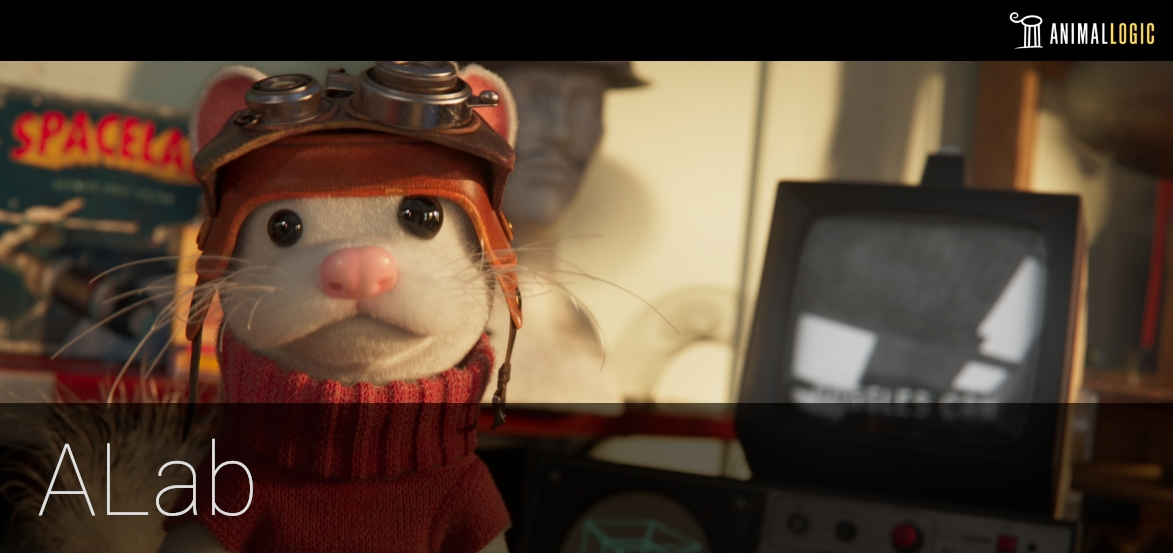
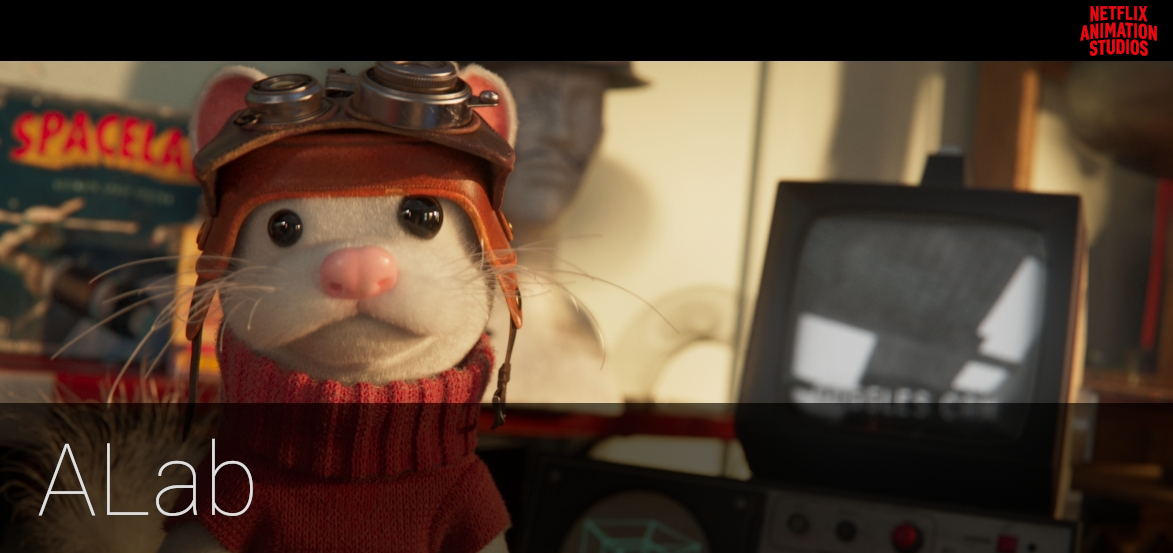
Rebrand Animal Logic to Netflix Animation Studios

Changed region(s): [[0.8593, 0.0, 1.0, 0.123]]

diff --git a/README.md b/README.md
@@ -3,7 +3,7 @@
 
 # Introduction
 
-Welcome to Animal Logic's USD [ALab](https://animallogic.com/alab/).
+Welcome to Netflix Animation Studios' USD [ALab](https://animallogic.com/alab/).
 
 **TL;DR:** [Download ALab](https://dpel.aswf.io/alab/) and open `entry.usda` to get started.
 
@@ -12,7 +12,7 @@ Applications with USD support, such as Maya-2022+, Houdini-18.5+ and many more s
 For quick preview and inspection, [`USDView`](https://graphics.pixar.com/usd/docs/USD-Toolset.html#USDToolset-usdview) is a great starting point.
 
 
-|   Glimpse (AL proprietary)   | Houdini (Karma) |  Maya (VP2/render purpose) |  UsdView (Storm/render purpose)  |
+|   Glimpse (NAS proprietary)   | Houdini (Karma) |  Maya (VP2/render purpose) |  UsdView (Storm/render purpose)  |
 | ---------------------------- | --------------- | ------------------ | ------------------------ |
 |![Glimpse](docs/public/glimpse_phase2.png)|![Houdini screenshot](docs/public/houdini_phase2.png)|![Maya 2022 screenshot](docs/public/maya_phase2.png)|![UsdView (render purpose)](docs/public/usdview_phase2.png)|
 
@@ -20,16 +20,16 @@ For quick preview and inspection, [`USDView`](https://graphics.pixar.com/usd/doc
 # Documentation
 
 - [Documentation](docs/src/pages/documentation.md) - File structure layout and asset documentation.
-- [AL-specific content](docs/src/pages/alSpecific.md) - Animal Logic specific concepts, which we love, but had to remove from ALab to ensure ease of use and compatibility.
+- [NAS-specific content](docs/src/pages/nasSpecific.md) - Netflix Animation Studios specific concepts, which we love, but had to remove from ALab to ensure ease of use and compatibility.
 - [Changelog](docs/src/pages/changelog.md) - List of all the updates from the latest versions of ALab.
 
 
 # About ALab
-The ALab data set is the Animal Logic interpretation and implementation of real-world production and pipeline concepts in USD.
+Originally released in 2021 by Animal Logic, the ALab data set is the Netflix Animation Studios interpretation and implementation of real-world production and pipeline concepts in USD.
 
 It includes over 300 fully surfaced assets derived from an internally produced project, rather than created from scratch as a "USD reference implementation." It consequently exhibits the complexities (and some of the messiness) of real production assets. If one were to build a USD structure for the sole purpose of showcasing USD, it would lead to a different result.
 
-The `entry.usda` `stage` places you in a shot with a structure similar to how we use it at Animal Logic. Since no shot is complete without animation, included are two animated characters, each with some level of proceduralism. Due to this proceduralism requiring some custom `schemas` for our internal Glimpse renderer, we have provided a hint on what these procedurals create in a separate `baked_procedurals` package. This is the "cached" content that would be sent to the renderer per-frame.
+The `entry.usda` `stage` places you in a shot with a structure similar to how we use it at Netflix Animation Studios. Since no shot is complete without animation, included are two animated characters, each with some level of proceduralism. Due to this proceduralism requiring some custom `schemas` for our internal Glimpse renderer, we have provided a hint on what these procedurals create in a separate `baked_procedurals` package. This is the "cached" content that would be sent to the renderer per-frame.
 
 For “production style rendering” we also provide an additional package `texture_pack` with multi UDIM, mipmapped 4K OpenEXR textures.
 
@@ -38,7 +38,7 @@ Refer below to the `Available Packages` section for more information on these.
 We hope that this is the starting point for future contributions to showcase new ideas for discussion, promotion, and hopefully adoption.
 
 
-## Why did Animal Logic create these assets?
+## Why did Netflix Animation Studios create these assets?
 We created them to be used *internally*, primarily to provide client-free IP data for:
 - Training of Developers, TDs and Artists
 - Discussion Reference ("something to point at")
@@ -100,7 +100,7 @@ After merging, your contents from the `baked_procedurals` folder should look lik
 
 ![replace_texture_pack](docs/public/baked_procedurals.jpg)
 
-Refer to the `Render Procedurals` section from [AL-specific content](docs/src/pages/alSpecific.md) for more details on this. 
+Refer to the `Render Procedurals` section from [NAS-specific content](docs/src/pages/nasSpecific.md) for more details on this. 
 
 ## Texture Pack
 * 4k texture maps, half float mipmapped OpenEXR images in ACEScg colour space.

diff --git a/docs/src/pages/documentation.md b/docs/src/pages/documentation.md
@@ -10,7 +10,7 @@ layout: ../layouts/Documentation.astro
 
 ## File / Asset Structure (Entities & Fragments)
 
-At Animal Logic, we organise files into "`Entities` & `Fragments`" Libraries.
+At Netflix Animation Studios, we organise files into "`Entities` & `Fragments`" Libraries.
 
 > Note: If we weren't using a custom asset resolver internally, we would probably use two `PXR_AR_DEFAULT_SEARCH_PATH`s (pointing to `/entity` and `/fragment`) to make asset identification very simple.
 
@@ -387,7 +387,7 @@ The `point instancers` come with **off** and **render** `variants` under the `va
 
 ## USDSkel
 
-[USDSkel](https://graphics.pixar.com/usd/release/api/usd_skel_page_front.html) is a bare-bones rig with simple skeletons and blendshapes. At Animal Logic, `USDSkel` is used for crowd workflows. It works well for this purpose as it is designed to be efficient and scalable, with a lack of shared joint influence and the ability to apply unique animations to `instances` without deinstancing.
+[USDSkel](https://graphics.pixar.com/usd/release/api/usd_skel_page_front.html) is a bare-bones rig with simple skeletons and blendshapes. At Netflix Animation Studios, `USDSkel` is used for crowd workflows. It works well for this purpose as it is designed to be efficient and scalable, with a lack of shared joint influence and the ability to apply unique animations to `instances` without deinstancing.
 
 This is represented in USD through **skel** `primvars`, which are a part of USD's `SkelBindingAPI`.
 
@@ -449,7 +449,7 @@ When crowd departments use this as an agent, they choose the `skeleton=on` varia
 
 `Primvars` are a special attribute that a renderer can associate with a geometric `primitive`. They can vary across the `primitive` they are defined on through various interpolation rules, defined in the [documentation](https://graphics.pixar.com/usd/dev/api/class_usd_geom_primvar.html).
 
-For example, **vertex** defines the value to be interpolated across the vertices on the surface. `Primvars` can also be passed onto children of USD `primitives`. This makes them very flexible, which makes them effective as custom attributes for renderers (such as Animal Logic's Glimpse) to read. You can read more about this in the [AL-Specific documentation](alSpecific).
+For example, **vertex** defines the value to be interpolated across the vertices on the surface. `Primvars` can also be passed onto children of USD `primitives`. This makes them very flexible, which makes them effective as custom attributes for renderers (such as Netflix Animation Studios' Glimpse) to read. You can read more about this in the [NAS-Specific documentation](nasSpecific).
 
 As seen in the USD snippet above, the `SkelBindingAPI` uses its **skel** `primvars` to allow joint weights and joint indices to vary across the same primitive with vertex interpolation.
 
@@ -700,7 +700,7 @@ In phase 2, you can also see a `value clip` used for the baked procedurals of Mc
 
 ## Assemblies & Native Instancing
 
-At Animal Logic we make heavy use of instancing whenever possible. By default, all `entities` used on an environment are instanced.
+At Netflix Animation Studios we make heavy use of instancing whenever possible. By default, all `entities` used on an environment are instanced.
 
 This means if we use the same seven windows on a city, they all share the same prototype `prim`. ALab is no exception, these are the most frequently used `entities` (all of which are instanced):
 
@@ -789,7 +789,7 @@ Render procedurals such as hair (Alfro) and cloth (Weave) have been expanded int
 
 ![Procedurals in ALab rendered by Houdini's Karma](../../public/character_procedurals_in_karma.png)
 
-These curves are represented by USD overrides and stored in `baked_procedurals.usd`. They overwrite the original Animal Logic procedural data designed for Glimpse with a `prim` `<procedural_root_prim>/procedurals/output/curves`.
+These curves are represented by USD overrides and stored in `baked_procedurals.usd`. They overwrite the original Netflix Animation Studios procedural data designed for Glimpse with a `prim` `<procedural_root_prim>/procedurals/output/curves`.
 
 These curves should be visible by switching to a view with display `purpose` **render**. In `USDView`, you can navigate to **View > Display Purposes > Render**.
 

diff --git a/docs/src/pages/main.md b/docs/src/pages/main.md
@@ -6,7 +6,7 @@ layout: ../layouts/BaseLayout.astro
 
 # Introduction
 
-Welcome to Animal Logic's USD [ALab](https://animallogic.com/alab/).
+Welcome to Netflix Animation Studios' USD [ALab](https://animallogic.com/alab/).
 
 **TL;DR:** [Download ALab](https://dpel.aswf.io/alab/) and open `entry.usda` to get started.
 
@@ -21,16 +21,16 @@ For quick preview and inspection, [`USDView`](https://graphics.pixar.com/usd/doc
 # Documentation
 
 - [Documentation](../documentation) - File structure layout and asset documentation.
-- [AL-specific content](../alSpecific) - Animal Logic specific concepts, which we love, but had to remove from ALab to ensure ease of use and compatibility.
+- [NAS-specific content](../nasSpecific) - Netflix Animation Studios specific concepts, which we love, but had to remove from ALab to ensure ease of use and compatibility.
 - [Changelog](../changelog) - List of all the updates from the latest versions of ALab.
 
 # About ALab
 
-The ALab data set is the Animal Logic interpretation and implementation of real-world production and pipeline concepts in USD.
+Originally released in 2021 by Animal Logic, The ALab data set is the Netflix Animation Studios interpretation and implementation of real-world production and pipeline concepts in USD.
 
 It includes over 300 fully surfaced assets derived from an internally produced project, rather than created from scratch as a "USD reference implementation." It consequently exhibits the complexities (and some of the messiness) of real production assets. If one were to build a USD structure for the sole purpose of showcasing USD, it would lead to a different result.
 
-The `entry.usda` `stage` places you in a shot with a structure similar to how we use it at Animal Logic. Since no shot is complete without animation, included are two animated characters, each with some level of proceduralism. Due to this proceduralism requiring some custom `schemas` for our internal Glimpse renderer, we have provided a hint on what these procedurals create in a separate `baked_procedurals` package. This is the "cached" content that would be sent to the renderer per-frame.
+The `entry.usda` `stage` places you in a shot with a structure similar to how we use it at Netflix Animation Studios. Since no shot is complete without animation, included are two animated characters, each with some level of proceduralism. Due to this proceduralism requiring some custom `schemas` for our internal Glimpse renderer, we have provided a hint on what these procedurals create in a separate `baked_procedurals` package. This is the "cached" content that would be sent to the renderer per-frame.
 
 For “production style rendering” we also provide an additional package `texture_pack` with multi UDIM, mipmapped 4K OpenEXR textures.
 
@@ -38,7 +38,7 @@ Refer below to the `Available Packages` section for more information on these.
 
 We hope that this is the starting point for future contributions to showcase new ideas for discussion, promotion, and hopefully adoption.
 
-## Why did Animal Logic create these assets?
+## Why did Netflix Animation Studios create these assets?
 
 We created them to be used _internally_, primarily to provide client-free IP data for:
 
@@ -104,7 +104,7 @@ After merging, your contents from the `baked_procedurals` folder should look lik
 
 ![replace_texture_pack](../../public/baked_procedurals.jpg)
 
-Refer to the `Render Procedurals` section from [AL-specific content](../alSpecific) for more details on this.
+Refer to the `Render Procedurals` section from [NAS-specific content](../nasSpecific) for more details on this.
 
 ## Texture Pack
 

diff --git a/docs/src/pages/nasSpecific.md b/docs/src/pages/nasSpecific.md
@@ -1,14 +1,14 @@
 ---
-layout: ../layouts/AlSpecific.astro
+layout: ../layouts/NasSpecific.astro
 ---
 
-# Animal Logic
+# Netflix Animation Studios
 
 This document describes some of the USD concepts, which we love, but had to remove from ALab to ensure ease of use and compatibility. Some of them are more daring and unique than others, but we hope that you find them all interesting.
 
 # toc
 
-# Animal Logic
+# Netflix Animation Studios
 
 ## URIs > Relative Filepaths
 
@@ -152,7 +152,7 @@ static const TfTokenVector distortAttrsTable[numModels] = {
 
 ## Prim Schemas
 
-In addition to the Camera `schema`, we use other `schemas` for various use cases at Animal Logic. See below for a few more examples, which we use with the "USD Schema Generator" (as outlined [here](https://graphics.pixar.com/usd/docs/api/_usd__page__generating_schemas.html)).
+In addition to the Camera `schema`, we use other `schemas` for various use cases at Netflix Animation Studios. See below for a few more examples, which we use with the "USD Schema Generator" (as outlined [here](https://graphics.pixar.com/usd/docs/api/_usd__page__generating_schemas.html)).
 
 ```c++
 class ALEditFrameRange "ALEditFrameRange" (
@@ -228,7 +228,7 @@ We use a custom `schema` called `ALMayaReference` to reference Maya data. When s
 
 ![Shot](../../public/weave.png)
 
-In the Animal Logic pipeline, we emit some procedural geometry straight into the renderer (Glimpse).
+In the Netflix Animation Studios pipeline, we emit some procedural geometry straight into the renderer (Glimpse).
 
 - Cloth and Fabric ("[Weave](https://dl.acm.org/doi/abs/10.1145/3214745.3214781)")
 - Hair and Fur ("Alfro")
@@ -289,7 +289,7 @@ When downloading the `baked_procedurals` additional package, these `primvars` wi
 
 ## "Glimpse" Materials and Bindings
 
-[Glimpse](https://www.fxguide.com/fxfeatured/a-glimpse-at-animal-logic/) is the in-house renderer at Animal Logic.
+[Glimpse](https://www.fxguide.com/fxfeatured/a-glimpse-at-animal-logic/) is the in-house renderer at Netflix Animation Studios.
 
 Layered assignments underpin two important workflows:
 
@@ -411,7 +411,7 @@ Be aware that there is a fairly strict "grammar" in USD, which needs to be adher
 
 ### Register Your Kinds (`pluginInfo.json`)
 
-To register custom `kinds` in your pipeline, define them in a `pluginInfo.json`. This is an excerpt of the one we use at Animal Logic:
+To register custom `kinds` in your pipeline, define them in a `pluginInfo.json`. This is an excerpt of the one we use at Netflix Animation Studios:
 
 ```json
 {

diff --git a/LICENSE.md b/LICENSE.md
@@ -1,8 +1,8 @@
 ASWF Digital Assets License v1.1
 
-License for Animal Logic ALab (the "Asset Name").
+License for Netflix Animation Studios ALab (the "Asset Name").
 
-Animal Logic ALab Copyright 2024 Animal Logic Pty Limited. All rights reserved.
+Netflix Animation Studios ALab Copyright 2025 Netflix, Inc. All rights reserved.
 
 Redistribution and use of these digital assets, with or without modification, solely for education, training, research, software and hardware development, performance benchmarking (including publication of benchmark results and permitting reproducibility of the benchmark results by third parties), or software and hardware product demonstrations, are permitted provided that the following conditions are met:
 
